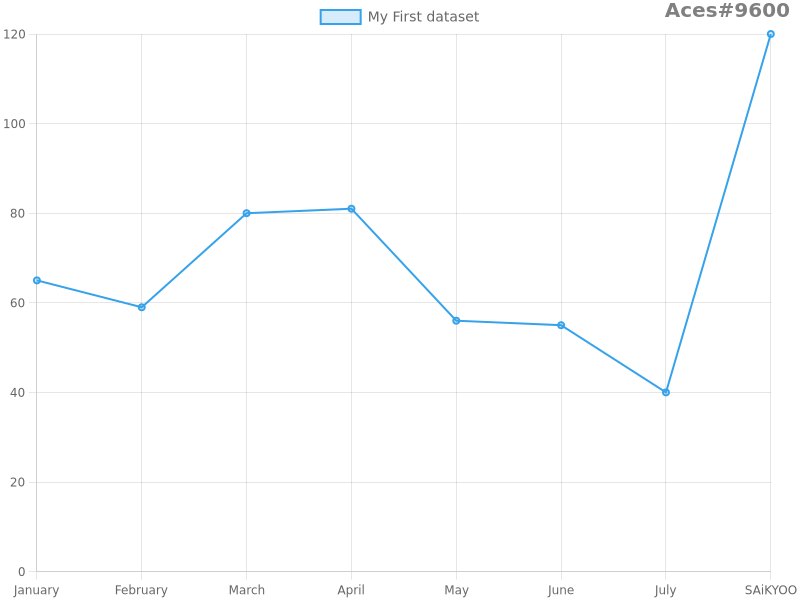
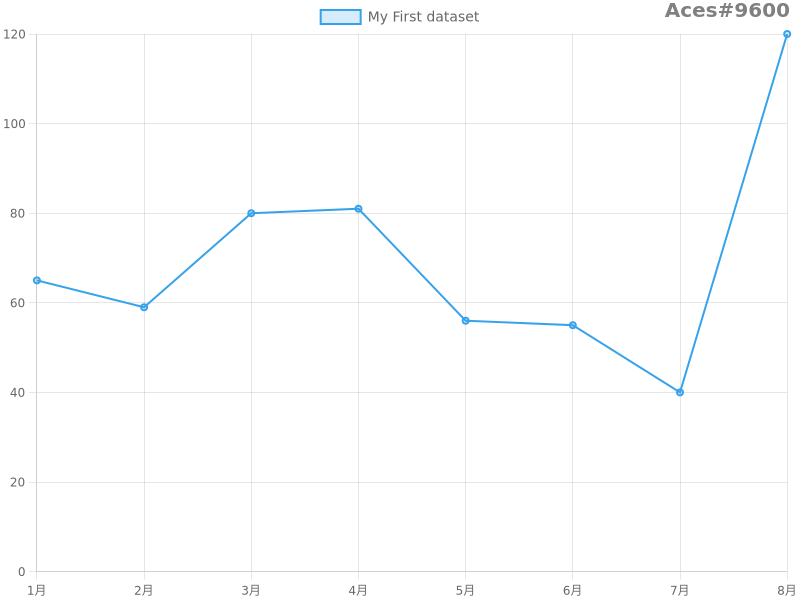
💇🐧 Checkpoint ./.glitch-assets:62000883/424 ./server.js:62000883/409

diff --git a/server.js b/server.js
@@ -23,7 +23,7 @@ ctx.fillRect(0, 0, canvas.width, canvas.height);
 const configuration = {
   type: 'line',
   data: {
-    labels: ['January', 'February', 'March', 'April', 'May', 'June', 'July', 'SAiKYOO'],
+    labels: ['1月', '2月', '3月', '4月', '5月', '6月', '7月', '8月'],
     datasets: [{
       data: [65, 59, 80, 81, 56, 55, 40, 120],
       label: 'My First dataset',
@@ -39,6 +39,7 @@ const configuration = {
       }
     },
     plugins: {
+      backgroundColor: '#FFFFFFFF',
       legend: {
         labels: {
           font: {
